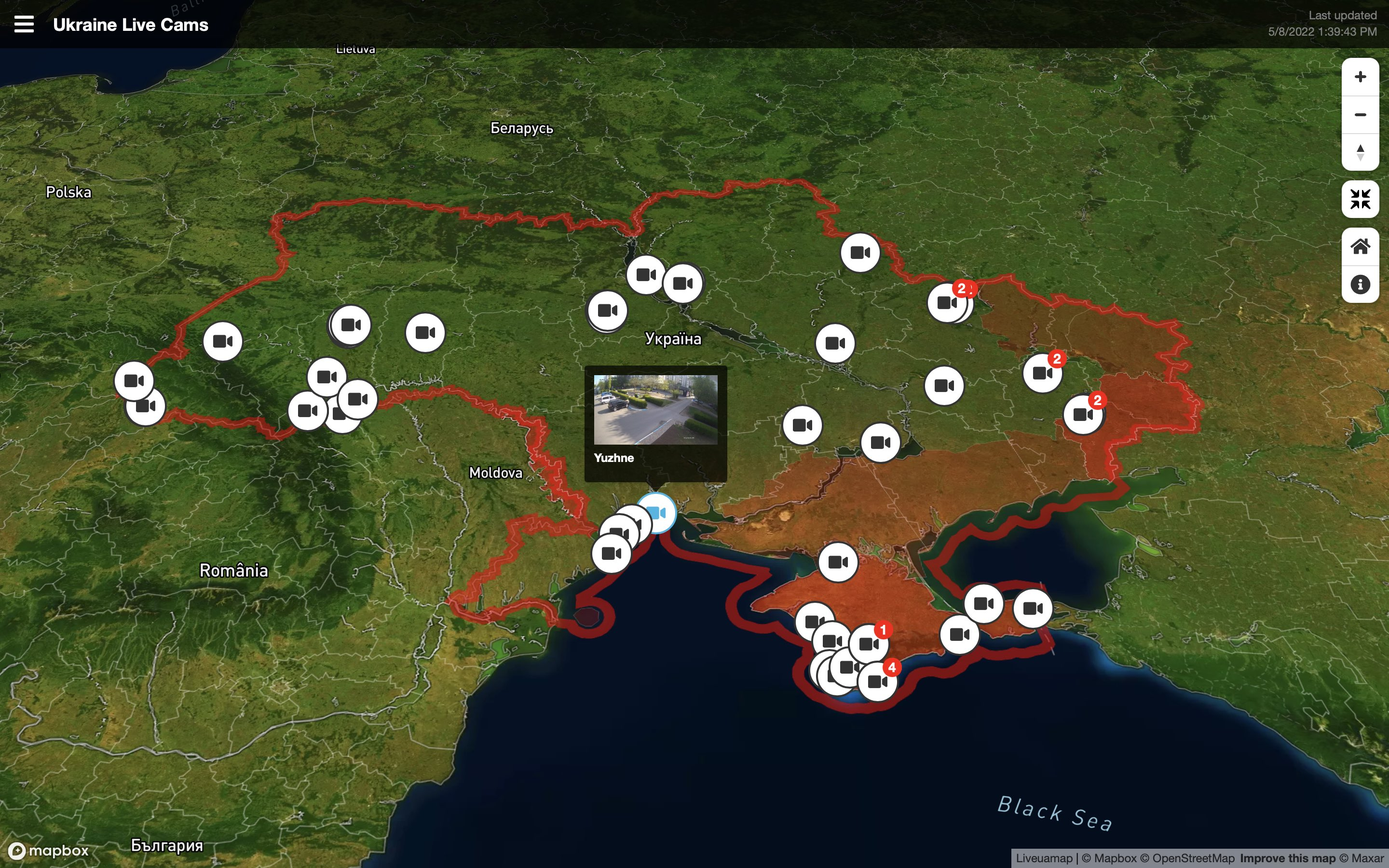
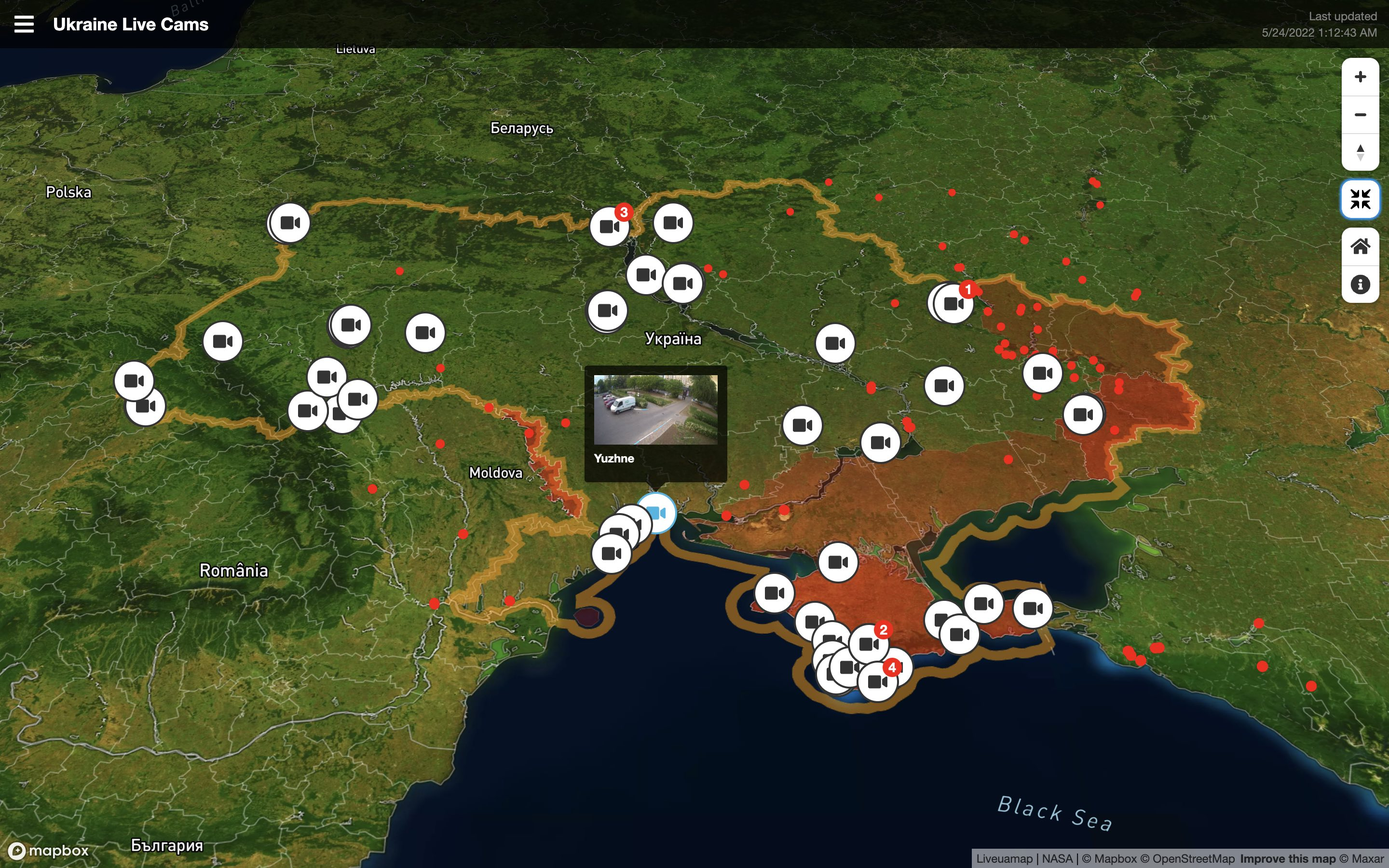
Add display of real-time fire information

diff --git a/index.html b/index.html
@@ -54,7 +54,7 @@
                             Click/tap on map: Unwatch
                         </p>
                         <hr>
-                        <p>This data visualization was produced by <a href="https://nagix.github.io" target="_blank">Akihiko Kusanagi</a>.</p>
+                        <p>This data visualization was produced by <a href="https://nagix.github.io" target="_blank">Akihiko Kusanagi</a>. The latest Russian occupation area is sourced from <a href="https://liveuamap.com" target="_blank">Liveuamap</a>. The real-time fire information is sourced from <a href="https://firms.modaps.eosdis.nasa.gov" target="_blank">FIRMS by NASA</a>.</p>
                         <p>Source code is available at <a href="https://github.com/nagix/ukraine-livecams" target="_blank">GitHub repository</a>.</p>
                     </div>
                 </div>

diff --git a/ukraine-livecams.css b/ukraine-livecams.css
@@ -90,7 +90,7 @@ html, body {
     position: absolute;
     top: 60px;
     right: 60px;
-    width: 250px;
+    width: 260px;
     background-color: #fff;
     box-shadow: 0 1px 2px rgba(0, 0, 0, 0.2);
     border-radius: 10px;

diff --git a/README.md b/README.md
@@ -6,6 +6,10 @@ An Ukraine live camera 3D map.
 
 See a [Live Demo](https://nagix.github.io/ukraine-livecams).
 
+## About Data
+
+The latest Russian occupation area is sourced from [Liveuamap](https://liveuamap.com). The real-time fire information is sourced from [Fire Information for Resource Management System (FIRMS) by NASA](https://firms.modaps.eosdis.nasa.gov).
+
 ## License
 
 Ukraine Live Cams is available under the [MIT license](https://opensource.org/licenses/MIT).
